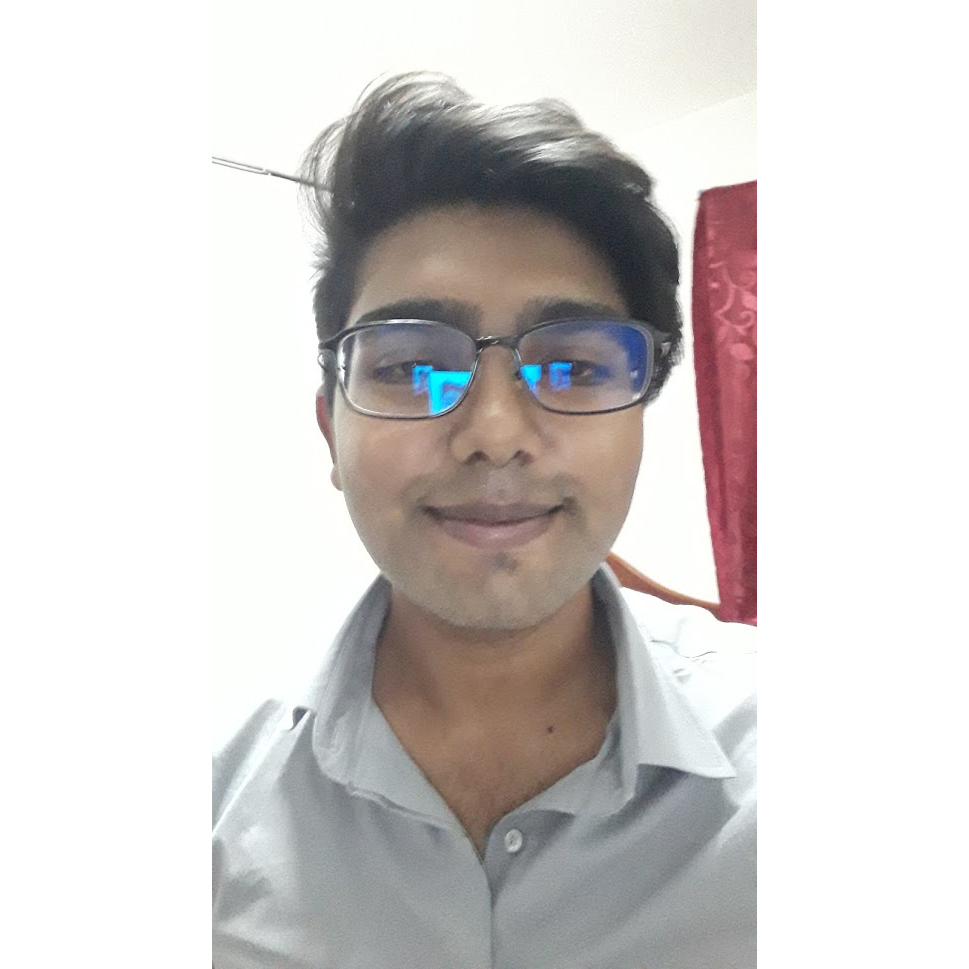
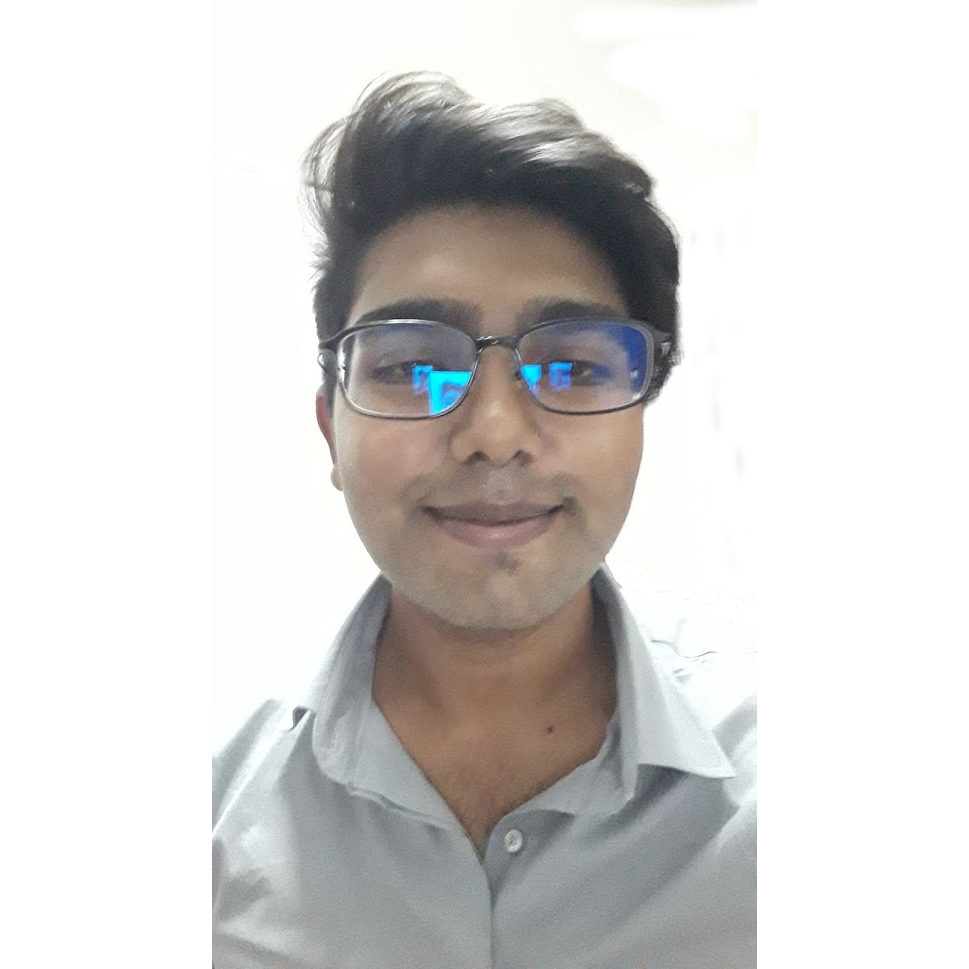
edit photo placement

Changed region(s): [[0.6192, 0.1858, 0.805, 0.6502], [0.6811, 0.0, 0.805, 0.1238], [0.2167, 0.1548, 0.3096, 0.1858]]

diff --git a/src/components/home/AboutMe.jsx b/src/components/home/AboutMe.jsx
@@ -45,11 +45,14 @@ const AboutMe = () => {
   return (
     <div id="aboutme" className="jumbotron jumbotron-fluid bg-transparent m-0">
       <div className="container container-fluid p-5">
+        <div className={`col-lg-12`}>
+          <h1 className="display-4 mb-5 text-center">{aboutHeading}</h1>
+        </div>
         <div className="row">
           {showInsta && (
-            <div className="col-5 d-none d-lg-block align-self-center">
+            <div className="col-5 d-none mx-auto d-block align-self-center">
               <img
-                className="border border-secondary rounded-circle"
+                className="border border-secondary rounded-circle mb-4"
                 src={require("../../editable-stuff/images/me.png")}
                 alt="profilepicture"
                 style={{ width: "100%", height: "100%" }}
@@ -57,7 +60,7 @@ const AboutMe = () => {
             </div>
           )}
           <div className={`col-lg-${showInsta ? "7" : "12"}`}>
-            <h1 className="display-4 mb-5 text-center">{aboutHeading}</h1>
+            {/* <h1 className="display-4 mb-5 text-center">{aboutHeading}</h1> */}
             <p className="lead text-center">{aboutDescription}</p>
             {resumeURL && (
               <p className="lead text-center">
